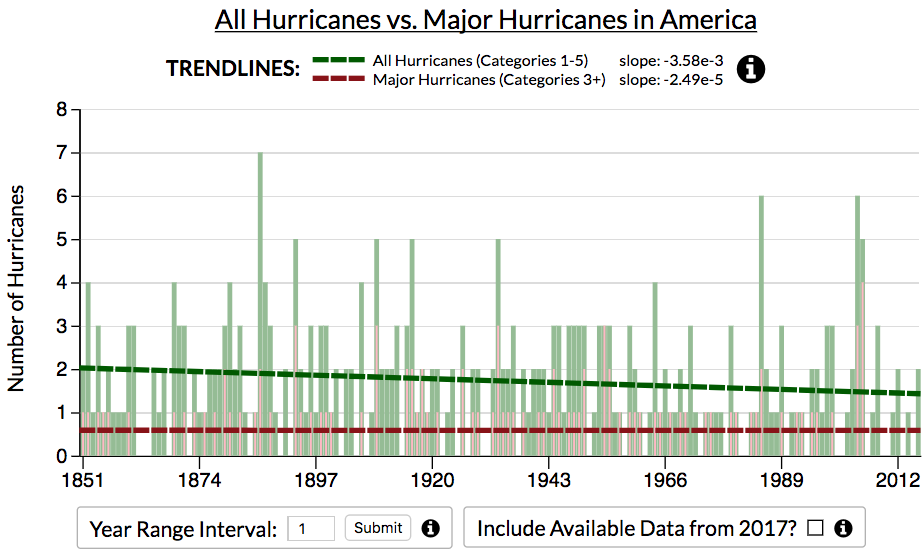
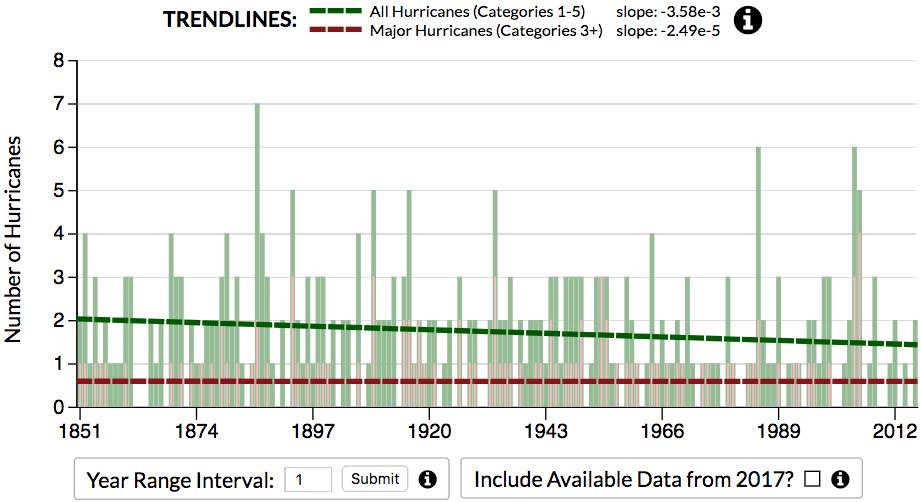
Set thumbnail dimensions, create style.css

Changed region(s): [[0.0608, 0.0, 1.0, 1.0], [0.0, 0.2689, 0.0304, 0.7171], [0.0608, 0.0896, 0.0912, 0.1494]]

diff --git a/components/vizTileData.js b/components/vizTileData.js
@@ -2,8 +2,8 @@ export const vizTileData = [
     {
       filename: "tweettones-thumbnail.png",
       url: "https://www.tweettones.me",
-      thumbW: 300,
-      thumbH: 350,
+      thumbW: 420,
+      thumbH: "auto",
       frameW: 1000,
       frameH: 600,
       forceHeight: true,
@@ -12,16 +12,16 @@ export const vizTileData = [
     {
       filename: "hurricane-data-thumbnail.png",
       url: "https://jclin2013.github.io/HurricaneDataViz/",
-      thumbW: null,
-      thumbH: null,
+      thumbW: 580,
+      thumbH: "auto",
       frameW: null,
       frameH: null
     },
     {
       filename: "mass-shootings-thumbnail.png",
       url: "https://jclin2013.github.io/MassShootingsViz/",
-      thumbW: null,
-      thumbH: null,
+      thumbW: 540,
+      thumbH: "auto",
       frameW: null,
       frameH: null
     },

diff --git a/index.html b/index.html
@@ -6,6 +6,7 @@
     <script src="bundle.js"></script>
     <script type="text/javascript" src="https://ajax.googleapis.com/ajax/libs/jquery/1.10.2/jquery.min.js"></script>
     <link rel="stylesheet" type="text/css" href="lightcase-2.4.0/src/css/lightcase.css">
+    <link rel="stylesheet" type="text/css" href="style.css">
     <script src="lightcase-2.4.0/src/js/lightcase.js"></script>
     <script>
     	jQuery(document).ready(function($) {

diff --git a/components/Thumbnail.jsx b/components/Thumbnail.jsx
@@ -22,6 +22,7 @@ class Thumbnail extends React.Component {
       >
 
         <img
+          className="vizThumbnailImg"
           src={"thumbnails/" + d.filename}
           width={d.thumbW || 550}
           height={d.thumbH || 350}
